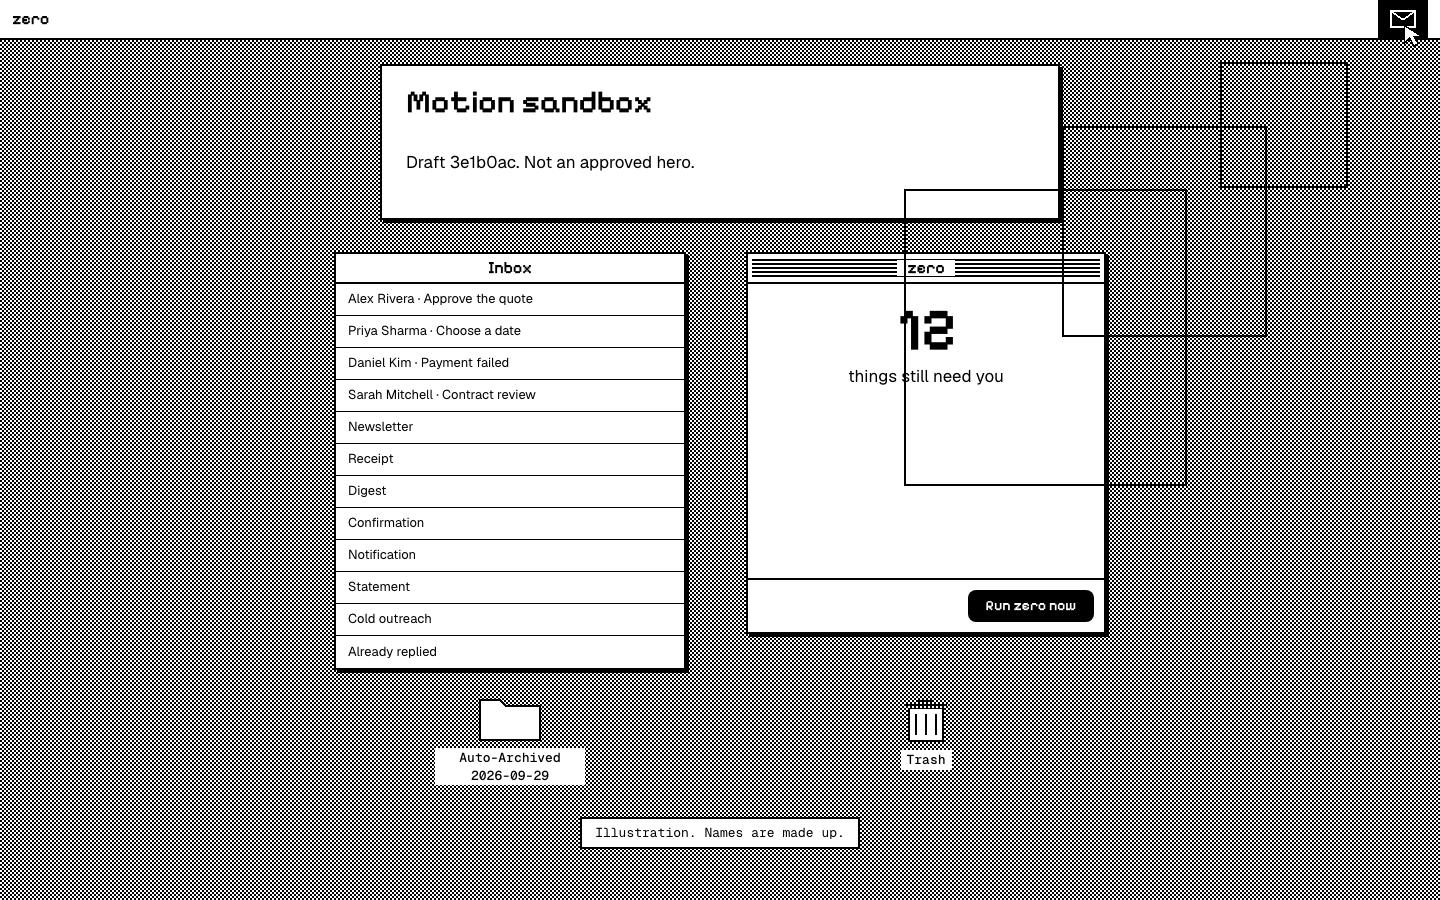
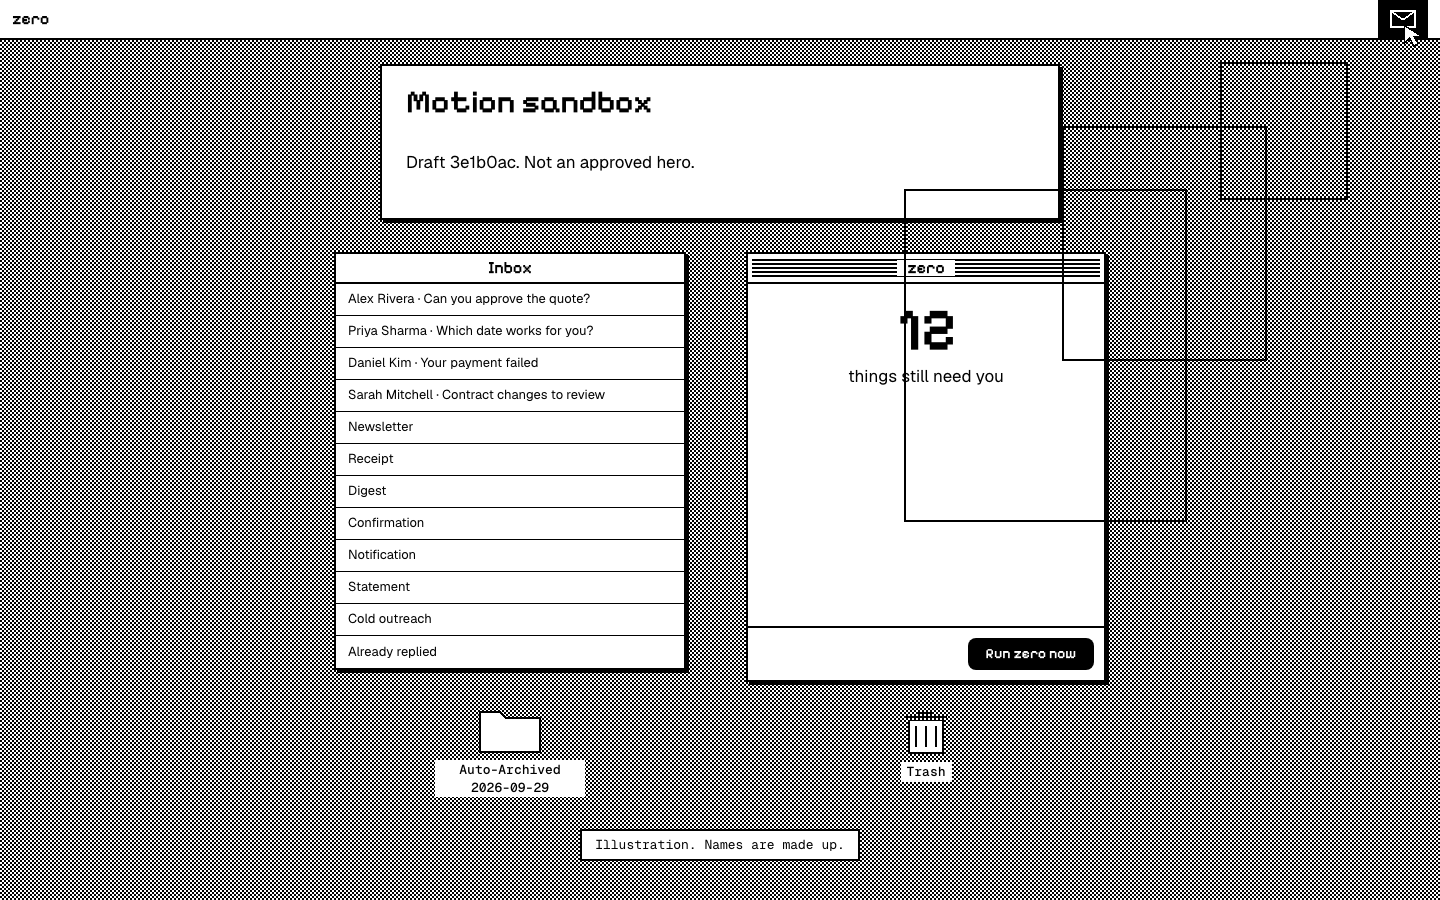
redesign-3/04: keep envelope paths clear and preserve hero copy

diff --git a/missions/website-redesign-3/slices/04-motion-and-polish/proof/sandbox/story.js b/missions/website-redesign-3/slices/04-motion-and-polish/proof/sandbox/story.js
@@ -8,7 +8,10 @@
   const tray = root.querySelector('#replay');
   const q = new URLSearchParams(location.search);
   const hide = n => rows.forEach((row, i) => { row.style.visibility = i < n ? 'hidden' : ''; });
-  const from = { sel: () => innerWidth >= 760 ? rows.find(row => getComputedStyle(row).visibility !== 'hidden') : count, fx: .5 };
+  const from = { sel: () => innerWidth >= 760 ? rows.find(row => getComputedStyle(row).visibility !== 'hidden') : count, fx: .5, get fy() { return innerWidth >= 760 ? .5 : 0; } };
+  // Mobile moves from the top of the digits to blank list space in discrete steps,
+  // never through the label. Desktop keeps the Inbox-to-folder upward arc.
+  const hopLift = () => innerWidth >= 760 ? 70 : -70;
   const destination = { sel: () => [...folder.querySelectorAll('svg')].find(el => el.getClientRects().length), fy: .45 };
   const story = {
     onLoad: true, delay: 700, cursorMinWidth: 760, replay: tray,
@@ -21,10 +24,10 @@
       { cursor: { sel: '.zp-run' }, kind: 'watch', cursorSteps: 7, cursorMs: 380, hold: 350,
         set: () => { label.textContent = 'Working…'; } },
       { cursor: { sel: '.zp-run' }, kind: 'watch', hold: 200,
-        enter: (r, z) => z.hop(r, from, destination, { n: 8, steps: 5, ms: 170, gap: 120, lift: 70,
+        enter: (r, z) => z.hop(r, from, destination, { n: 8, steps: 5, ms: 170, gap: 120, lift: hopLift(),
           onLaunch: i => { rows[i].style.visibility = 'hidden'; },
           onEach: i => { count.textContent = String(11 - i); folder.classList.add('got'); } }),
-        still: (r, z) => { hide(4); count.textContent = '8'; folder.classList.add('got'); z.hopStill(r, from, destination, [.3, .7], 70); } },
+        still: (r, z) => { hide(4); count.textContent = '8'; folder.classList.add('got'); z.hopStill(r, from, destination, [.3, .7], hopLift()); } },
       { cursor: { sel: '.zp-rows li:first-child', fy: 1.35 }, cursorSteps: 5, cursorMs: 220, hold: 0,
         set: () => story.finish() }
     ]

diff --git a/missions/website-redesign-3/slices/04-motion-and-polish/proof/sandbox/index.html b/missions/website-redesign-3/slices/04-motion-and-polish/proof/sandbox/index.html
@@ -32,14 +32,14 @@ if (PerformanceObserver.supportedEntryTypes.includes('layout-shift')) {
     <div id="inbox" class="win inactive">
       <div class="bar"><span class="t">Inbox</span></div>
       <ul class="list">
-        <li>Alex Rivera · Approve the quote</li><li>Priya Sharma · Choose a date</li><li>Daniel Kim · Payment failed</li><li>Sarah Mitchell · Contract review</li>
+        <li>Alex Rivera · Can you approve the quote?</li><li>Priya Sharma · Which date works for you?</li><li>Daniel Kim · Your payment failed</li><li>Sarah Mitchell · Contract changes to review</li>
         <li class="archive-row">Newsletter</li><li class="archive-row">Receipt</li><li class="archive-row">Digest</li><li class="archive-row">Confirmation</li><li class="archive-row">Notification</li><li class="archive-row">Statement</li><li class="archive-row">Cold outreach</li><li class="archive-row">Already replied</li>
       </ul>
     </div>
     <div id="panel" class="pop win">
       <div class="bar"><span class="t">zero</span></div>
       <div class="zp-count"><strong id="count">4</strong><span>things still need you</span></div>
-      <ul class="zp-rows"><li>Alex Rivera · Approve the quote</li><li>Priya Sharma · Choose a date</li><li>Daniel Kim · Payment failed</li><li>Sarah Mitchell · Contract review</li></ul>
+      <ul class="zp-rows"><li>Alex Rivera · Can you approve the quote?</li><li>Priya Sharma · Which date works for you?</li><li>Daniel Kim · Your payment failed</li><li>Sarah Mitchell · Contract changes to review</li></ul>
       <div class="zp-foot"><span class="zp-run"><span id="run-label">Run zero now</span></span></div>
     </div>
     <div class="icon folder"><svg class="px f-full" viewBox="0 0 32 22"><use href="#folder-full"/></svg><svg class="px f-empty" viewBox="0 0 32 22"><use href="#folder"/></svg><span class="lbl">Auto-Archived 2026-09-29</span></div>

diff --git a/missions/website-redesign-3/slices/04-motion-and-polish/proof/sandbox/sandbox.css b/missions/website-redesign-3/slices/04-motion-and-polish/proof/sandbox/sandbox.css
@@ -16,8 +16,8 @@
 #panel{width:100%;max-width:360px}
 #panel .zp-count{height:112px}
 #count{min-width:2ch;text-align:center;font-variant-numeric:tabular-nums}
-#panel .zp-rows{height:172px}
-#panel .zp-rows li{font-size:12px;white-space:nowrap;overflow:hidden;text-overflow:ellipsis}
+#panel .zp-rows{height:220px}
+#panel .zp-rows li{font-size:12px;line-height:16px;white-space:normal}
 #run-label{display:block;min-width:12ch;text-align:center}
 .folder,.trash{justify-self:center}
 .folder .lbl{white-space:normal;overflow-wrap:anywhere;max-width:190px}

diff --git a/missions/website-redesign-3/slices/04-motion-and-polish/proof/sandbox/evidence/VERIFICATION.md b/missions/website-redesign-3/slices/04-motion-and-polish/proof/sandbox/evidence/VERIFICATION.md
@@ -6,8 +6,8 @@ Scope: slice 04 draft runner prototype only. Candidate source and artifacts are 
 
 | Check | Result | Evidence |
 |---|---|---|
-| Chromium full suite | 14 passed, 0 failed | `chromium-green.txt` |
-| Installed Playwright WebKit full suite | 12 passed, 0 failed, 2 optional capture/reference checks skipped | `webkit-green.txt` |
+| Chromium full suite | 16 passed, 0 failed | `chromium-green.txt` |
+| Installed Playwright WebKit full suite | 14 passed, 0 failed, 2 optional capture/reference checks skipped | `webkit-green.txt` |
 | Regression RED against designer runner | 3 expected failures out of 5 selected checks | `reference-red.txt` |
 | Static and reduced-motion render | PNG bytes equal to no-JS final HTML in both engines | parity tests in green logs |
 | Keyboard replay and overlapping activation | Second activation returns current promise, settled result remains truthful | replay test in green logs |
@@ -18,14 +18,16 @@ Scope: slice 04 draft runner prototype only. Candidate source and artifacts are 
 | Eight real arrivals | Numeric transition sequence `12, 11, 10, 9, 8, 7, 6, 5, 4` in both engines | timing log and `timing-chromium.json` |
 | Measured Chromium CLS | Exactly 0 at tested desktop/mobile widths, including startup | Chromium log |
 | WebKit CLS | Not independently measured: the Layout Instability API is absent | do not interpret its zero accumulator as proof |
-| Active Chromium duration | Desktop 4,996 ms; mobile 4,052 ms | `timing-chromium.json` |
-| Active WebKit duration | Desktop 5,050 ms; mobile 4,084 ms | `webkit-green.txt` |
-| Designer reference active Chromium duration | 4,474 ms at 1440 px, final count 4 | `reference-timing.json` |
+| Active Chromium duration | Desktop 4,987 ms; mobile 4,044 ms | `timing-chromium.json` |
+| Active WebKit duration | Desktop 5,065 ms; mobile 4,088 ms | `webkit-green.txt` |
+| Designer reference active Chromium duration | 4,488 ms at 1440 px, final count 4 | `reference-timing.json` |
 | Runner size | 10,480 source bytes, 3,508 gzip bytes | measured with Node `zlib.gzipSync` |
-| Story data size | 2,458 source bytes, 1,041 gzip bytes | measured with Node `zlib.gzipSync` |
-| Separately served runtime gzip total | 4,549 bytes, below 8 KB target | sum of the two runtime scripts, excludes fixture-only metrics instrumentation |
+| Story data size | 2,735 source bytes, 1,174 gzip bytes | measured with Node `zlib.gzipSync` |
+| Separately served runtime gzip total | 4,682 bytes, below 8 KB target | sum of the two runtime scripts, excludes fixture-only metrics instrumentation |
+| COPY v3 hero rows | Exact sender/subject strings in both lists, all text fits at 320/390/1440 px | owned COPY.md and full-string browser geometry test |
+| Mobile envelope/label separation | No rectangle intersections in frame 3 or live playback at 320/390 px | new geometry regression test in both green logs |
 
-The reported nine-second Aside playback was not reproduced in the active local renderer. Timer throttling remains a possible explanation, not a demonstrated cause. The hardened runner cancels to the complete final state on hidden-document events and has a six-second default deadline.
+The reported nine-second Aside playback was not reproduced in the active local renderer. No cause is asserted. The hardened runner cancels to the complete final state on hidden-document events and has a six-second default deadline.
 
 The current designer reference measured above is the live comp as of `9d9d1db`. That update adds alternative hero/section beats, removes the demo counter, and makes Terminal and Undo options explicit. The sandbox remains the originally authorized five-frame hero draft. It does not claim to implement those newer section options.
 
@@ -37,7 +39,9 @@ The current designer reference measured above is the live comp as of `9d9d1db`. 
 - `390-reduced.png` and `1440-reduced.png`: settled end states.
 - `capture.json`: capture timestamp, widths, and Chromium version.
 
-Design-lead still owns the judgment of whether the mobile counter-launch reads correctly. The strips do not assert comprehension approval. No account initials, badges, or ages were added.
+Design-lead judged the original `62f413e` mobile strip on 2026-09-29 at 22:12Z: the counter-launch reads as archiving, so keep it. This refreshed strip addresses the two requested corrections: mobile envelopes launch from the top of the count digits into empty list space, never splitting the label, and both lists use the exact COPY v3 hero sender/subject strings. Row slots are fixed at a height that accommodates full wrapped copy. No account initials, badges, or ages were added. Visual acceptance of this corrected strip remains design-lead's judgment.
+
+The two new regression tests were run against `62f413e` before changing the fixture. Both failed as expected: abbreviated hero copy and a frame-3 label collision at 320 px. After the corrections, both pass in Chromium and WebKit. The live path test observes all five visible positions of each of eight hops. The sixth position is the folder arrival, removed synchronously before paint, and the separate eight-arrival/count test verifies completion.
 
 ## Mechanical design detector
 
